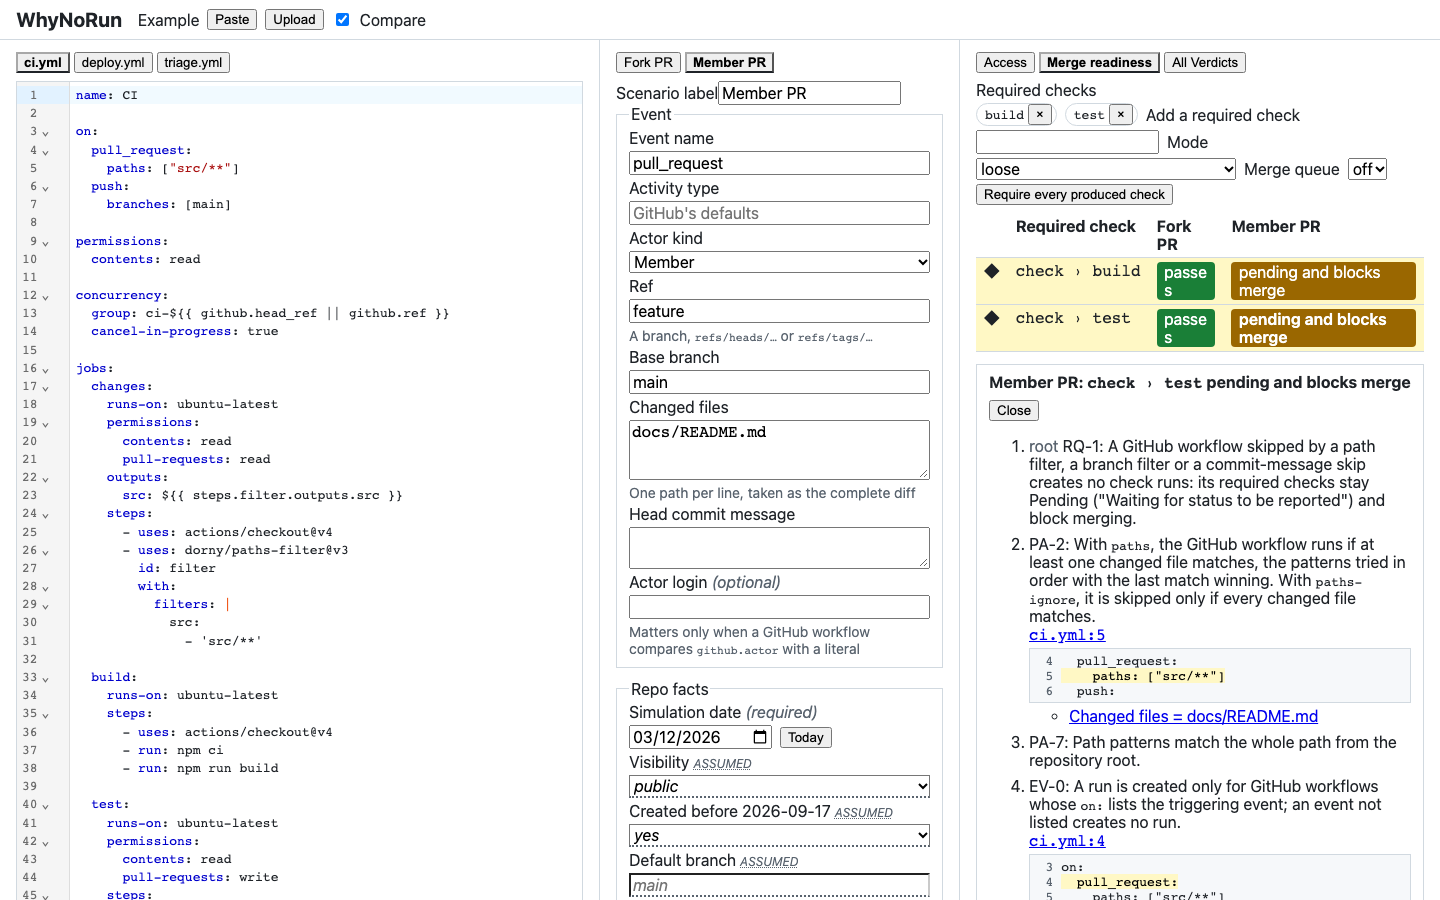
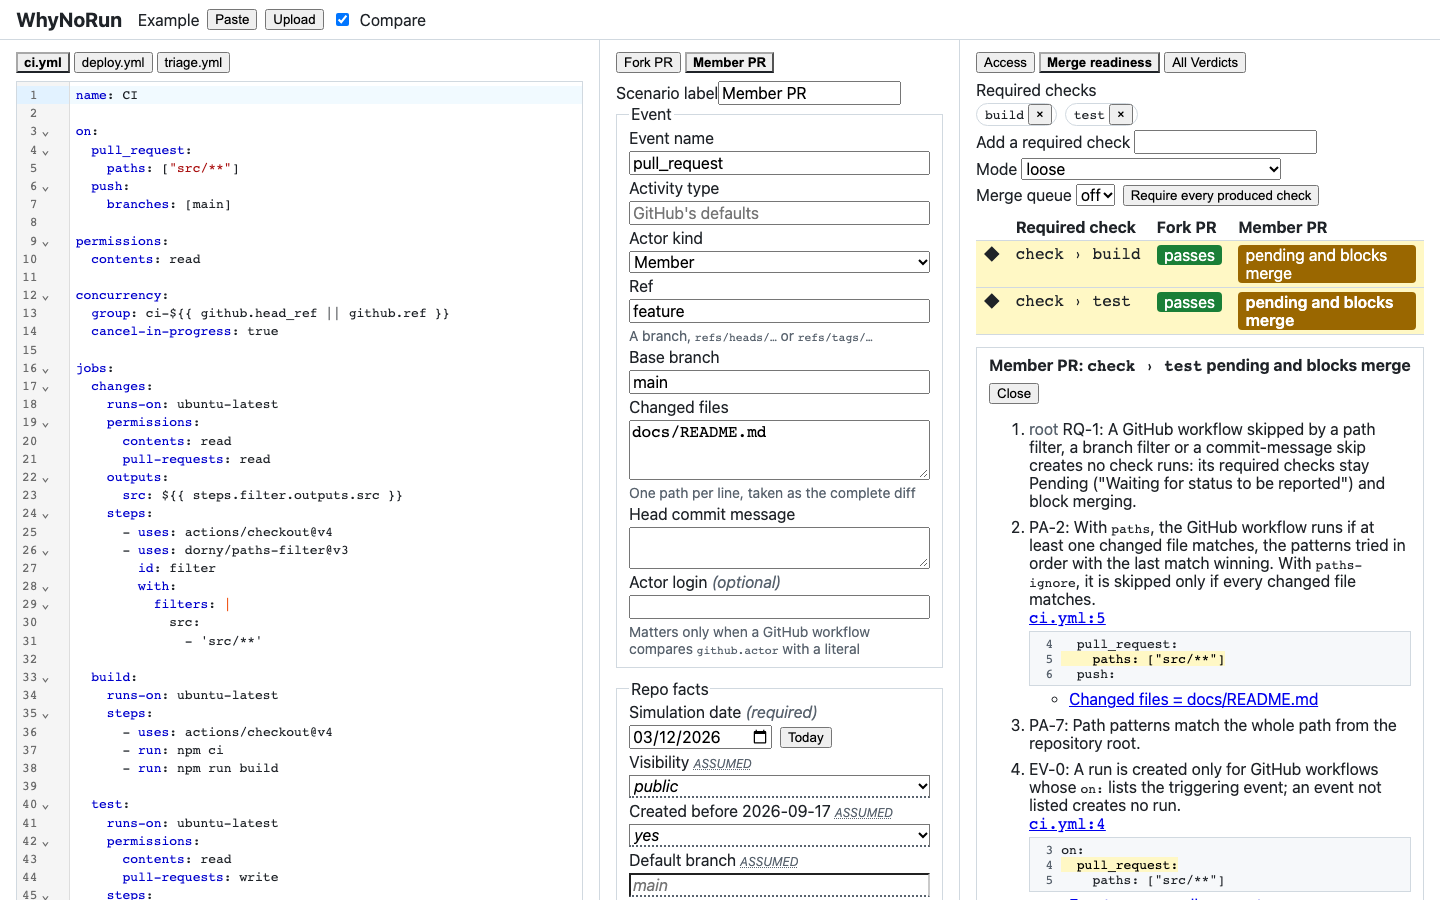
Fix the 0.2.0 review findings on #74
- CHANGELOG 0.2.0: Merge-readiness badge wording, FK-4 "Pending and
  blocks merge", PRT-5, JG-11 and Uncertain-upstream checks, and WN-1
  under Affected rules.
- README flow 2: Dependabot under PA-4, the glossary term, and that
  merge readiness is playground-only until `whynorun test`/`show --from`.
- Playground: badges no longer break mid-word, and each required-checks
  label stays with its control; merge-readiness.png retaken.
- readme.test.ts: the status-line check no longer reads the version as a regex.

Claude-Session: https://claude.ai/code/session_015ik7ZztTM5nXS8P3GGQQUL

Changed region(s): [[0.6562, 0.1244, 1.0, 1.0]]

diff --git a/playground/src/MergeReadiness.tsx b/playground/src/MergeReadiness.tsx
@@ -85,36 +85,42 @@ export function RequiredChecks({
           </li>
         ))}
       </ul>
-      <label htmlFor={`${id}-add`}>Add a required check</label>
-      <input
-        id={`${id}-add`}
-        spellCheck={false}
-        value={text}
-        onChange={(e) => setText(e.target.value)}
-        onKeyDown={(e) => {
-          if (e.key !== "Enter") return;
-          e.preventDefault();
-          add();
-        }}
-      />
-      <label htmlFor={`${id}-mode`}>Mode</label>
-      <select
-        id={`${id}-mode`}
-        value={strict ? "strict" : "loose"}
-        onChange={(e) => onChange("strict", e.target.value === "strict")}
-      >
-        <option value="loose">loose</option>
-        <option value="strict">strict (up to date before merging)</option>
-      </select>
-      <label htmlFor={`${id}-queue`}>Merge queue</label>
-      <select
-        id={`${id}-queue`}
-        value={mergeQueue ? "on" : "off"}
-        onChange={(e) => onChange("mergeQueue", e.target.value === "on")}
-      >
-        <option value="off">off</option>
-        <option value="on">on</option>
-      </select>
+      <span className="field">
+        <label htmlFor={`${id}-add`}>Add a required check</label>
+        <input
+          id={`${id}-add`}
+          spellCheck={false}
+          value={text}
+          onChange={(e) => setText(e.target.value)}
+          onKeyDown={(e) => {
+            if (e.key !== "Enter") return;
+            e.preventDefault();
+            add();
+          }}
+        />
+      </span>
+      <span className="field">
+        <label htmlFor={`${id}-mode`}>Mode</label>
+        <select
+          id={`${id}-mode`}
+          value={strict ? "strict" : "loose"}
+          onChange={(e) => onChange("strict", e.target.value === "strict")}
+        >
+          <option value="loose">loose</option>
+          <option value="strict">strict (up to date before merging)</option>
+        </select>
+      </span>
+      <span className="field">
+        <label htmlFor={`${id}-queue`}>Merge queue</label>
+        <select
+          id={`${id}-queue`}
+          value={mergeQueue ? "on" : "off"}
+          onChange={(e) => onChange("mergeQueue", e.target.value === "on")}
+        >
+          <option value="off">off</option>
+          <option value="on">on</option>
+        </select>
+      </span>
       <button type="button" onClick={onRequireProduced}>
         Require every produced check
       </button>

diff --git a/playground/src/styles.css b/playground/src/styles.css
@@ -481,6 +481,11 @@ dialog form {
   width: auto;
 }
 
+/* body's overflow-wrap: anywhere would break a badge mid-word; wrapping at spaces keeps the table in its panel. */
+.grid .value {
+  overflow-wrap: normal;
+}
+
 /* A cell names its Scenario only once the Scenarios stack. */
 .grid .tag {
   display: none;
@@ -549,6 +554,13 @@ select.assumed {
 
 .required-checks .label {
   width: 100%;
+}
+
+/* Keeps each label on the same line as its control. */
+.required-checks .field {
+  display: inline-flex;
+  gap: 0.25rem;
+  align-items: center;
 }
 
 .chips {

diff --git a/src/core/readme.test.ts b/src/core/readme.test.ts
@@ -23,7 +23,7 @@ test("the README's status line names package.json's version", () => {
   const { version } = JSON.parse(
     readFileSync(new URL("../../package.json", import.meta.url), "utf8"),
   ) as { version: string };
-  expect(readme).toMatch(new RegExp(`^\\*\\*Status:\\*\\* ${version}: `, "m"));
+  expect(readme).toContain(`\n**Status:** ${version}: `);
 });
 
 test("the README's Platform baseline matches the core's export", () => {

diff --git a/CHANGELOG.md b/CHANGELOG.md
@@ -17,9 +17,9 @@ Core flow 2, the merge-readiness check, works end to end.
 
 ### Added
 
-- The merge-readiness check (core flow 2): each required check gets a `check › <name>` Verdict, Passes, Pending and blocks merge, Fails and blocks merge, May not block or Uncertain, worked out from the job whose check name it is (RQ-0).
-- A GitHub workflow skipped by a path, branch or commit-message filter leaves its required checks Pending and blocks merge (RQ-1), quoting GitHub's advice (RQ-8). A job skipped by its own `if:` passes (RQ-2), one skipped because a `needs` dependency failed may not block (RQ-3), and a failing job or the "job X fails" Assumption fails and blocks merge (RQ-4). A fork run awaiting approval leaves its checks Pending (FK-4).
-- Uncertain checks: duplicate or case-only name matches and a producer whose file has a Diagnostic (RQ-0), a job `name:` the Scenario can't evaluate (WN-4), and names matched only through a matrix job (RQ-9) or a remote reusable caller (WN-6).
+- The merge-readiness check (core flow 2): each required check gets a Merge-readiness badge (`check › <name>`): Passes, Pending and blocks merge, Fails and blocks merge, May not block or Uncertain, worked out from the job whose check name it is (RQ-0).
+- A GitHub workflow skipped by a path, branch or commit-message filter leaves its required checks Pending and blocks merge (RQ-1), quoting GitHub's advice (RQ-8). A job skipped by its own `if:` passes (RQ-2), one skipped because a `needs` dependency failed may not block (RQ-3), and a failing job or the "job X fails" Assumption fails and blocks merge (RQ-4). A fork run awaiting approval leaves its checks Pending and blocks merge (FK-4). A blocked `pull_request_target` run fails and blocks merge, noting that its check conclusion is undocumented (PRT-5).
+- Uncertain checks: duplicate or case-only name matches and a producer whose file has a Diagnostic (RQ-0), a job `name:` the Scenario can't evaluate (WN-4), a failing producer with job-level `continue-on-error` (JG-11), a producer whose own Verdict is Uncertain, and names matched only through a matrix job (RQ-9) or a remote reusable caller (WN-6).
 - Same-repo and Dependabot pull requests also count checks from the push of their head branch, reusing the pull request's changed files (PA-4).
 - The merge queue: with it on, checks must also pass on a synthesised `merge_group` run (EV-6, BR-10), and a merge group no GitHub workflow runs for leaves them Pending (RQ-6).
 - Local reusable workflows' checks are named `<caller job name> / <callee job name>` (RQ-9). Strict mode notes that a pull request behind its base must pass again once brought up to date (RQ-10).
@@ -32,7 +32,8 @@ Core flow 2, the merge-readiness check, works end to end.
 
 ### Affected rules
 
-- JG-3: a job whose `if:` reads a failed need's outputs, such as the example's `ci.yml › e2e` with the "`ci.yml › changes` fails" Assumption, is no longer rooted in its own `if:` (JG-3); its root now follows the failed need, here WN-1.
+- JG-3: a job whose `if:` reads a failed need's outputs, such as the example's `ci.yml › e2e` with the "`ci.yml › changes` fails" Assumption, is no longer rooted in its own `if:`; its root now follows the failed need, here WN-1.
+- WN-1: now the root of a job skipped by a failed need even when its `if:` reads that need's outputs (was JG-3).
 
 ## [0.1.0] - 2026-10-29
 

diff --git a/README.md b/README.md
@@ -30,7 +30,7 @@ Pick a Scenario (a push, a same-repo or fork pull request, `pull_request_target`
 
 ### Merge-readiness check (core flow 2)
 
-Type your branch protection's required checks (or click Require every produced check) and the Merge readiness tab gives each one a badge: Passes, Pending and blocks merge, Fails and blocks merge, May not block, or Uncertain. A check is named after the job that reports it, `name:` or the job id (RQ-0). A GitHub workflow skipped by a path, branch or commit-message filter reports nothing, so its required checks stay Pending and block merge (RQ-1): GitHub's own advice is to avoid requiring workflows that can be skipped (RQ-8). A job skipped by its own `if:` passes (RQ-2), one skipped because a `needs` dependency failed may not block (RQ-3), and a job that fails, or the "job X fails" Assumption, fails and blocks merge (RQ-4). It also counts the push of a same-repo pull request's head branch (PA-4), the merge queue's `merge_group` run (RQ-6), and reusable workflows' `<caller> / <callee>` check names (RQ-9). With Compare on, ◆ marks each check whose badge differs, and its Explanation names the YAML line that decided it.
+Type your branch protection's required checks (or click Require every produced check) and the Merge readiness tab gives each one a Merge-readiness badge: Passes, Pending and blocks merge, Fails and blocks merge, May not block, or Uncertain. A check is named after the job that reports it, `name:` or the job id (RQ-0). A GitHub workflow skipped by a path, branch or commit-message filter reports nothing, so its required checks stay Pending and block merge (RQ-1): GitHub's own advice is to avoid requiring workflows that can be skipped (RQ-8). A job skipped by its own `if:` passes (RQ-2), one skipped because a `needs` dependency failed may not block (RQ-3), and a job that fails, or the "job X fails" Assumption, fails and blocks merge (RQ-4). It also counts the push of a same-repo or Dependabot pull request's head branch (PA-4), the merge queue's `merge_group` run (RQ-6), and reusable workflows' `<caller> / <callee>` check names (RQ-9). With Compare on, ◆ marks each check whose badge differs, and its Explanation names the YAML line that decided it. Merge readiness is in the playground for now; the CLI's `--flow checks` arrives with `whynorun test` and `show --from`.
 
 ![Merge-readiness check (core flow 2): the example's Fork PR and Member PR side by side. With only docs/README.md changed, the Member PR's check › build and check › test are Pending and blocks merge, against Passes for the Fork PR, rooted in RQ-1 and the paths filter on ci.yml line 5.](docs/images/merge-readiness.png)
 
